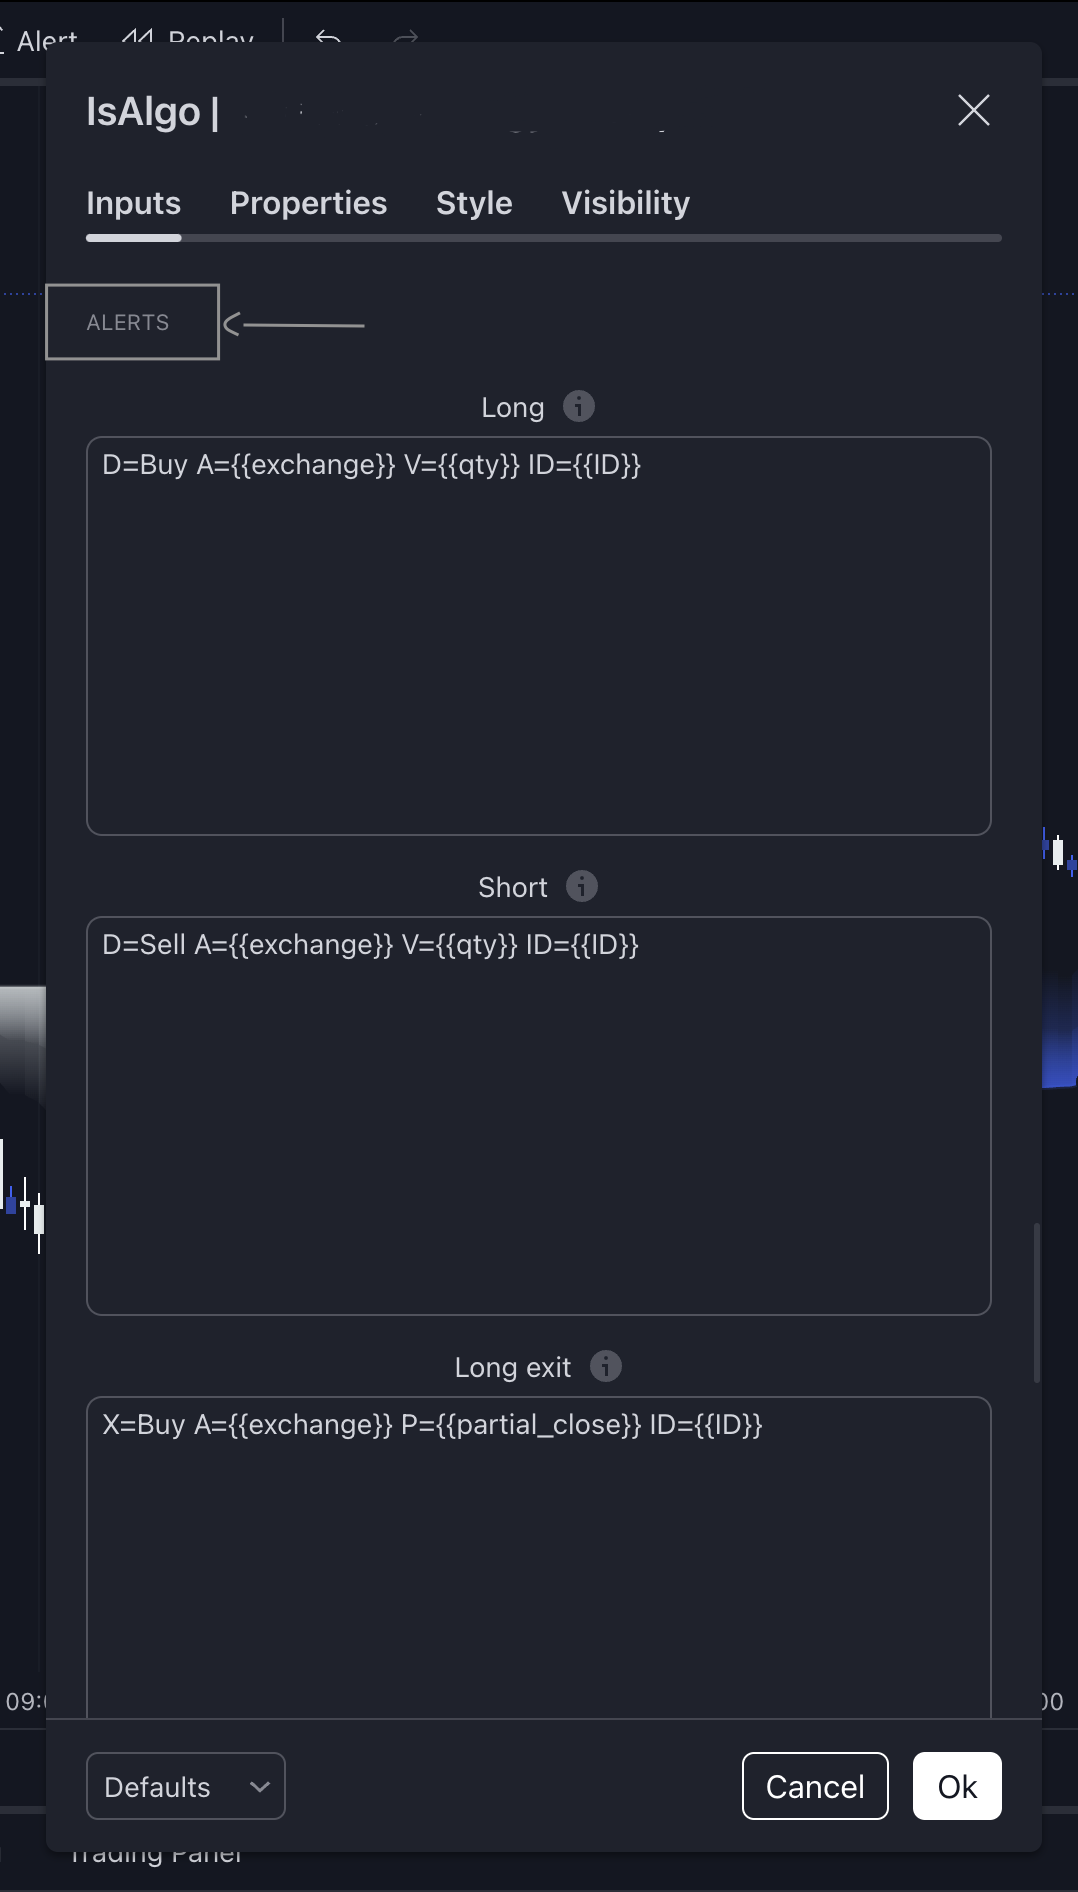
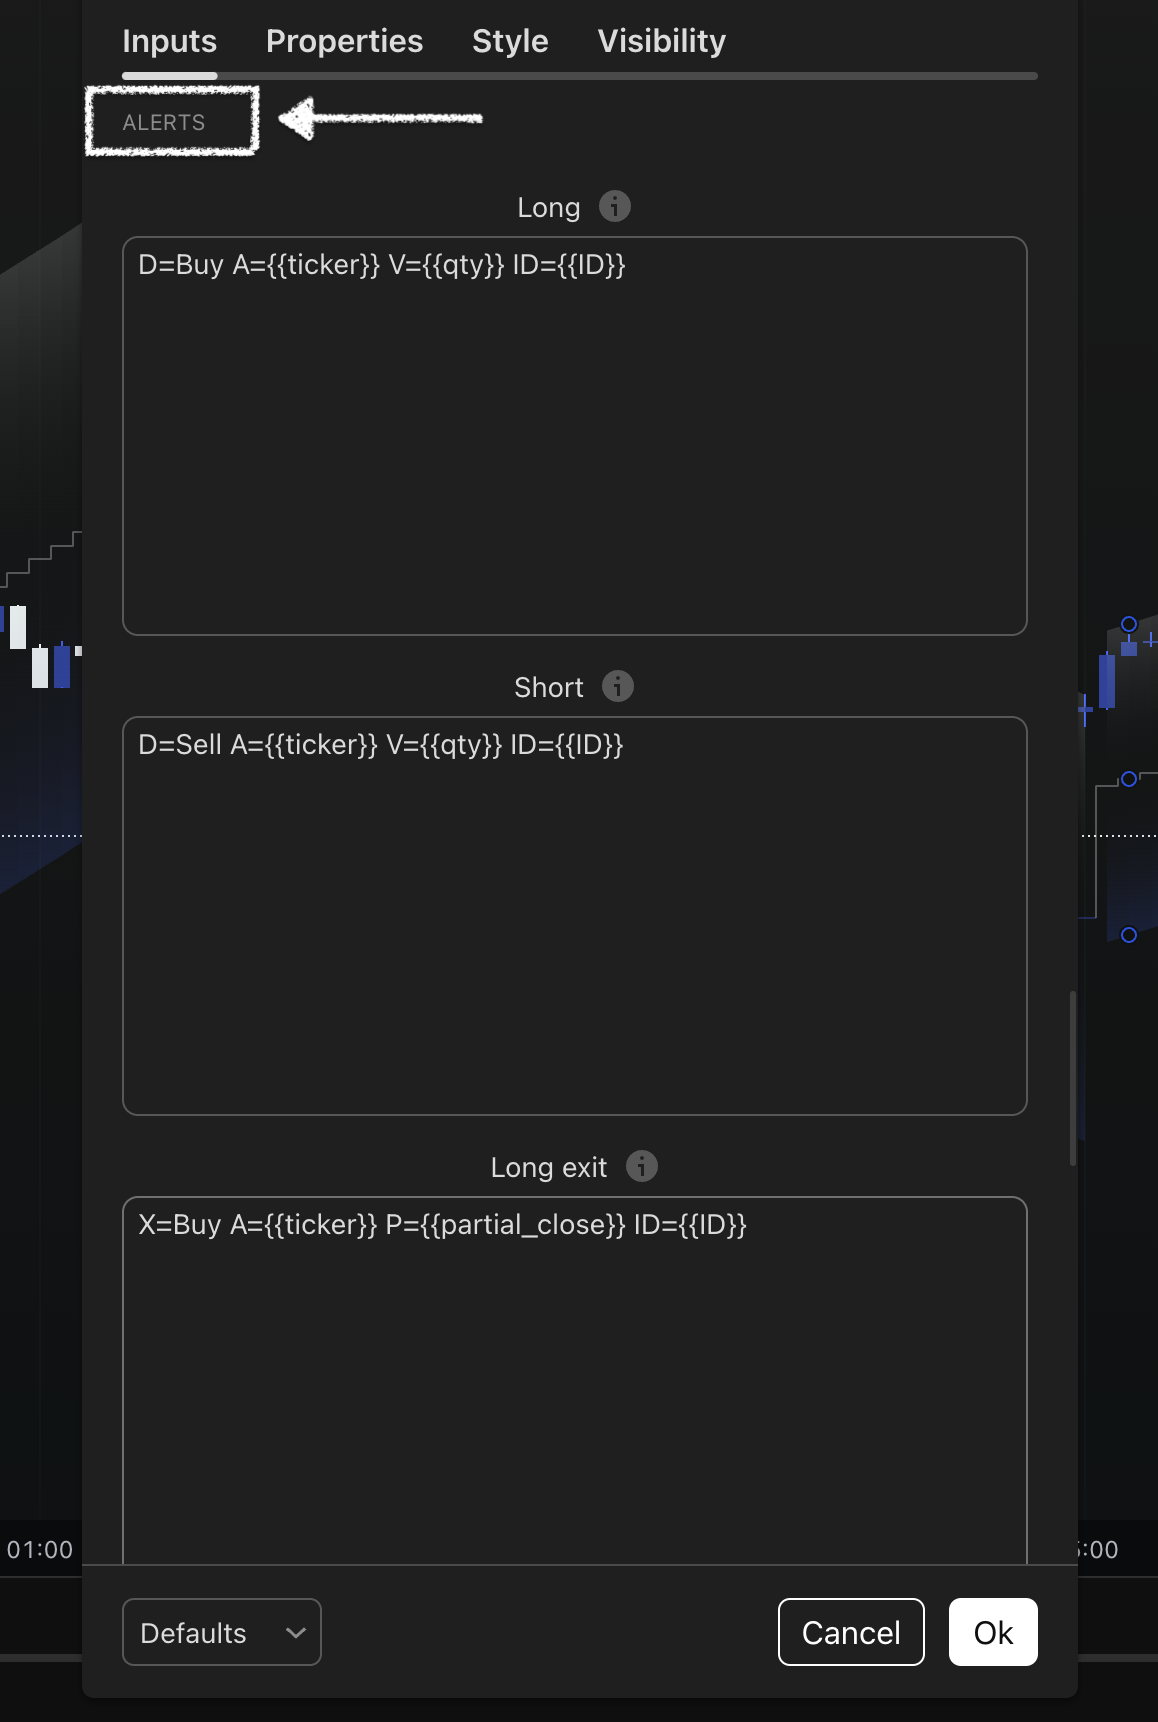
feat: Update alert creation documentation and improve performance sharing instructions

diff --git a/docs/templates/docs/include/docs/alerts_create.html b/docs/templates/docs/include/docs/alerts_create.html
@@ -1,83 +1,92 @@
 {% load static %}
 <article class="docs">
-    <section id="create-alert">
-        <aside>
-          <h3>Create TradingView alert</h3>
-    
-          <p>
-            <span >After setting up the alert message on the strategy you're using,</span> to start receiving alert messages on TradingView, you'll need to add one. With our strategies, you'll only need to create one, and it will send alerts on any entry as well as on any exit, one alert per strategy. <br/>The video below will show you how to add one.
-          </p>
-          <video
-          muted=""
-          controls="controls"
-        >
-          <source
-            src="https://isalgotest.s3.amazonaws.com/docs/add_alert_tv.mp4"
-            type="video/mp4"
-          />
-        </video>
-      </aside>
-      
-    </section>
+  <section id="create-alert">
+    <aside>
+      <h3>Create TradingView alert</h3>
 
-    {% comment %} <div class="mb-4"> {% include 'include/infos.html' with info='After changing the strategy inputs or properties, or after changing the timeframe or the chart, make sure to add the alert related to the new change. The old alert will keep working with your old settings.' %} </div> {% endcomment %}
+      <p>
+        <span>After setting up the alert message on the strategy you're using,</span> to start receiving alert messages on TradingView, you'll need to add one. With our strategies, you'll only need to create one, and it will send alerts on any entry as well as on any exit, one alert per strategy. <br />The video below will show you how to add one.
+      </p>
+      <video muted="" controls="controls">
+        <source src="https://isalgotest.s3.amazonaws.com/docs/add_alert_tv.mp4" type="video/mp4" />
+      </video>
+    </aside>
+  </section>
 
-    <section id="create-steps">
-        <aside>
-            <h3>Steps</h3>
-            <ol>
-                <li>Make sure your strategy/indicator are in the <span>TradingView</span> chart.</li>
-                <li>Click on the Alert icon (bell symbol) in the top right corner of the chart.
-                    <img onclick="showModalImages(this)"
-                    src='{% static "images/docs/automate/tv-chart.png" %}' 
-                     loading="lazy"
-                    alt="Access API Management" />
-                </li>
-                <li>Select Create Alert.                    
-                    <img onclick="showModalImages(this)" 
-                     loading="lazy"
-                    src='{% static "images/docs/automate/tv-alert-section.png" %}' 
-                    alt="Access API Management" />
-                </li>
-                <li>In the Condition dropdown, choose your strategy/indicator and select <span>alert() function calls only</span>.
-                    <img onclick='showModalImages(this)' 
-                     loading="lazy"
-                    src='{% static "images/docs/automate/tv-create-alert.png" %}' 
-                    alt="Access API Management" />
-                </li>
-                <li>Provide a name for the alert.</li>
-                <li>Go to the Notifications tab, enable the Webhook URL option, and paste your Webhook URL.
-                    {% if webhook_url %}
-                        <p class="!text-xs !text-text/40">This is your webhook URL releated to <span class="!text-text/80">{{webhook_name}}</span></p>
-                        <p class="pb-2"><code id="url-{{id}}" onclick="copyPlainText('url-{{id}}')">{{webhook_url}} <svg xmlns="http://www.w3.org/2000/svg" viewBox="0 0 24 24" fill="none" stroke="currentColor" stroke-width="2" stroke-linecap="round" stroke-linejoin="round"><rect width="14" height="14" x="8" y="8" rx="2" ry="2" /><path d="M4 16c-1.1 0-2-.9-2-2V4c0-1.1.9-2 2-2h10c1.1 0 2 .9 2 2" /></svg></code></p>
-                    {% endif %}
-                    <img onclick="showModalImages(this)" 
-                     loading="lazy"
-                    src='{% static "images/docs/automate/tv-webhook-alert.png" %}' 
-                    alt="Access API Management" />
-                </li>
-                <li>Click Create to finalize the alert.</li>
-            </ol>
-        </aside>
-    </section>
+  {% comment %} <div class="mb-4">
+    {% include 'include/infos.html' with info='After changing the strategy inputs or properties, or after changing the timeframe or the chart, make sure to add the alert related to the new change. The old alert will keep working with your old settings.' %}
+  </div> {% endcomment %}
 
-    <section id="important-notes">
-        <aside>
-            <p class="font-semibold">
-                IMPORTANT: The alert will be created based on the current settings of the strategy/indicator. To make it work on the new settings, you need to create a new alert and delete the old one if it's no longer needed. <br/>Changing the strategy/indicator settings after the alert is created will not update the existing alert; it will continue to function based on the settings that were active when it was created.
+  <section id="create-steps">
+    <aside>
+      <h3>Steps</h3>
+      <ol class="space-y-2">
+        <li>
+          Make sure your strategy/indicator are in the <span>TradingView</span> chart.
+        </li>
+        <li>
+          Click on the Alert icon (bell symbol) in the top right corner of the chart.
+          <img onclick="showModalImages(this)" src="{% static 'images/docs/automate/tv-chart.png' %}" loading="lazy" alt="Alert icon" />
+          Or from the strategy/indicator by clicking the three dots next to its name and selecting "Add Alert."
+          <img onclick="showModalImages(this)" src="{% static 'images/docs/automate/script-add-alert.png' %}" loading="lazy" alt="Alert icon" />
+          Or by clicking on the strategy/indicator name and pressing the "Alt + A" keys on your keyboard.
+        </li>
+        <li>
+          In the Condition dropdown, make sure to select your strategy/indicator.
+          <img onclick="showModalImages(this)" loading="lazy" src="{% static 'images/docs/automate/alert-condition.png' %}" alt="create alert" />
+        </li>
+        <li>
+          Then select <span>alert() function calls only</span>.
+          <img onclick="showModalImages(this)" loading="lazy" src="{% static 'images/docs/automate/alert-function.png' %}" alt="create alert" />
+        </li>
+        <li>
+          Ensure that the Expiration time is set to <span>Open-ended alert</span>.
+          <img onclick="showModalImages(this)" loading="lazy" src="{% static 'images/docs/automate/alert-expire.png' %}" alt="create alert" />
+        </li>
+        <li>
+          Provide a name for the alert.
+          <img onclick="showModalImages(this)" loading="lazy" src="{% static 'images/docs/automate/alert-name.png' %}" alt="create alert" />
+        </li>
+        <li>
+          Go to the Notifications tab, enable the Webhook URL option, and paste your Webhook URL.{% if webhook_url %}
+            <p class="!text-xs !text-text/40">
+              This is your webhook URL releated to <span class="!text-text/80">{{ webhook_name }}</span>
             </p>
-        </aside>
-    </section>
+            <p class="pb-2">
+              <code id="url-{{ id }}" onclick="copyPlainText('url-{{ id }}')">
+                {{ webhook_url }} <svg xmlns="http://www.w3.org/2000/svg" viewBox="0 0 24 24" fill="none" stroke="currentColor" stroke-width="2" stroke-linecap="round" stroke-linejoin="round">
+                  <rect width="14" height="14" x="8" y="8" rx="2" ry="2" />
+                  <path d="M4 16c-1.1 0-2-.9-2-2V4c0-1.1.9-2 2-2h10c1.1 0 2 .9 2 2" />
+                </svg>
+              </code>
+            </p>
+          {% endif %}
+          <img onclick="showModalImages(this)" loading="lazy" src="{% static 'images/docs/automate/tv-webhook-alert.png' %}" alt="finalize alert" />
+        </li>
+        <li>Click Create to finalize the alert.</li>
+      </ol>
+    </aside>
+  </section>
 
-    <div>
-        {% include 'include/warnings.html' with warning="Keep your webhook URL private to ensure the security of your alerts and avoid any disruptions. Sharing it could lead to missed or unauthorized alerts." %}
-    </div>
+  <section id="important-notes">
+    <aside>
+      <p class="font-semibold">
+        IMPORTANT: The alert will be created based on the current settings of the strategy/indicator. To make it work on the new settings, you need to create a new alert and delete the old one if it's no longer needed. <br />Changing the strategy/indicator settings after the alert is created will not update the existing alert; it will continue to function based on the settings that were active when it was created.
+      </p>
+    </aside>
+  </section>
 
-    <section class="mt-4">
-        <aside>
-            <h3>Need help?</h3>
+  <div>
+    {% include 'include/warnings.html' with warning='Keep your webhook URL private to ensure the security of your alerts and avoid any disruptions. Sharing it could lead to missed or unauthorized alerts.' %}
+  </div>
 
-                <p>If you encounter any issues during the integration process, our support team is here to help. Contact us <a href="{% url 'docs_contactus' %}" target="_blank">here</a>.</p>
-        </aside>
-    </section> 
+  <section class="mt-4">
+    <aside>
+      <h3>Need help?</h3>
+
+      <p>
+        If you encounter any issues during the integration process, our support team is here to help. Contact us <a href="{% url 'docs_contactus' %}" target="_blank">here</a>.
+      </p>
+    </aside>
+  </section>
 </article>

diff --git a/docs/templates/docs/include/docs/share_archivement.html b/docs/templates/docs/include/docs/share_archivement.html
@@ -1,49 +1,38 @@
 <article class="docs">
-  <div class="mb-4" >
-    {% include 'include/infos.html' with info="We are committed to building a community that values sharing successes with others. If you achieve positive results, we encourage you to share them with the community to enhance our collective experience and continue refining our systems." %}
+  <div class="mb-4">
+    {% include 'include/infos.html' with info='We are committed to building a community that values sharing successes with others. If you achieve positive results, we encourage you to share them with the community to enhance our collective experience and continue refining our systems.' %}
   </div>
 
   <section id="share-inputs">
     <aside>
-      <h3>
-        Share properties & perfermance
-      </h3>
+      <h3>Share properties & perfermance</h3>
 
       <p>
         The easiest way to share the properties and performance you used is by exporting the data from the TradingView strategy tester as an Excel file.<br />
         To do this, open the strategy tester, click on the strategy name, and select ‘Export Data.’ <br />
         The video below demonstrates this process. While you can manually enter the details, we highly recommend using the exported file for accuracy and convenience.
-
       </p>
-      <video
-        muted=""
-        controls="controls"
-      >
-        <source
-          src="https://isalgotest.s3.amazonaws.com/docs/add_properties_performance.mp4"
-          type="video/mp4"
-        />
+
+      <p>
+        <strong>Note:</strong> Ensure your TradingView language is set to English so the exported file is generated in English.
+      </p>
+
+      <video muted="" controls="controls">
+        <source src="https://isalgotest.s3.amazonaws.com/docs/add_properties_performance.mp4" type="video/mp4" />
       </video>
-  </aside>
+    </aside>
   </section>
-{% comment %} 
+  {% comment %}
   <section id="share-perfermance">
     <aside>
       <h3>Share perfermance</h3>
 
       <p>
-        Similarly to the inputs and properties, you can download the performance
-        summary from the TradingView strategy tester.
+        Similarly to the inputs and properties, you can download the performance summary from the TradingView strategy tester.
         <br />Refer to the video below to see how to do this.
       </p>
-      <video
-        muted=""
-        controls="controls"
-      >
-        <source
-          src="https://isalgotest.s3.amazonaws.com/docs/add_performance.mp4"
-          type="video/mp4"
-        />
+      <video muted="" controls="controls">
+        <source src="https://isalgotest.s3.amazonaws.com/docs/add_performance.mp4" type="video/mp4" />
       </video>
     </aside>
   </section> {% endcomment %}
@@ -52,17 +41,11 @@
     <aside>
       <h3>Description</h3>
 
-      <p>
-        Please write and provide a detailed description of how you utilized the
-        strategy, including the specific settings and parameters you applied.
-        This will allow the community to fully understand and benefit from your
-        experience.
-      </p>
+      <p>Please write and provide a detailed description of how you utilized the strategy, including the specific settings and parameters you applied. This will allow the community to fully understand and benefit from your experience.</p>
     </aside>
   </section>
 
-  <div class="mt-4" >
-    {% include 'include/infos.html' with info="We only accept profitable results with a minimum of 100 closed trades.<br />All results must be realistic, please ensure that commission and slippage are applied during testing." %}
+  <div class="mt-4">
+    {% include 'include/infos.html' with info='We only accept profitable results with a minimum of 100 closed trades.<br />All results must be realistic, please ensure that commission and slippage are applied during testing.' %}
   </div>
-
 </article>
